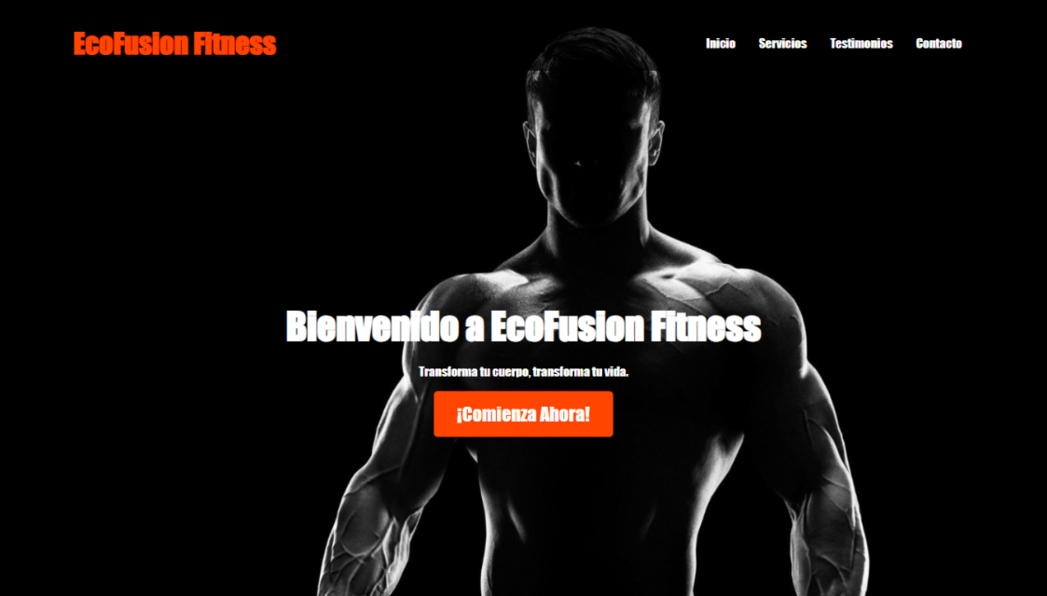
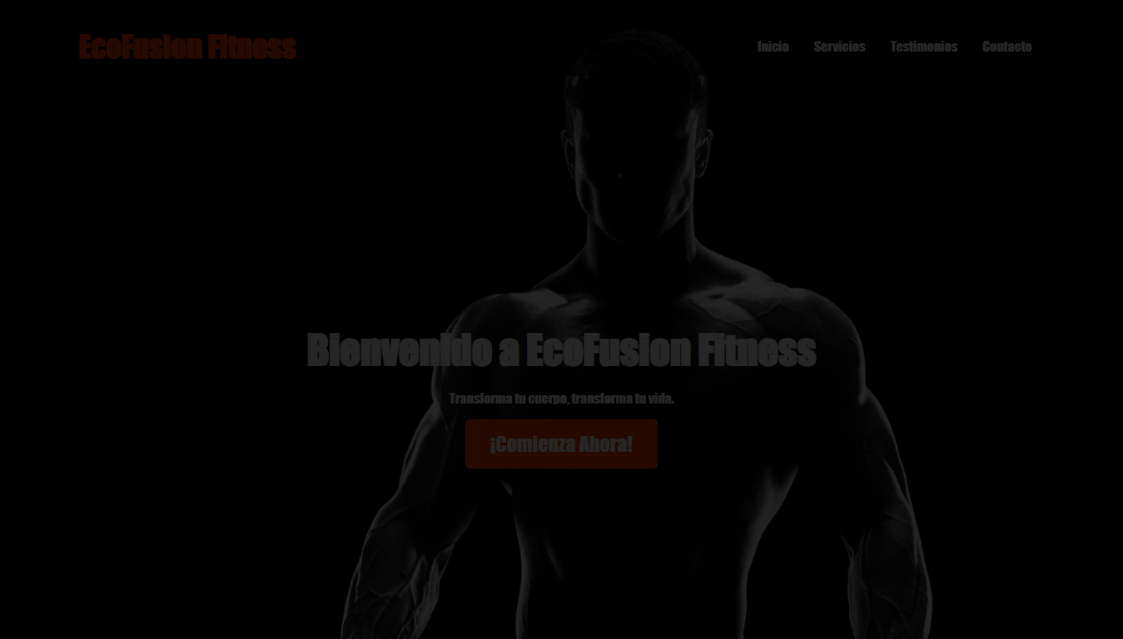
Finalizando ajustes del carrusel

diff --git a/src/components/sections/ProjectSection.js b/src/components/sections/ProjectSection.js
@@ -7,13 +7,22 @@ import 'src/app/globals.css'
 const ProjectSection = () => {
   const slides = [
     {
-      url: '/assets/img/projects/1.png'
+      url: '/assets/img/projects/11.png',
+      description: 'Nuestro objetivo es inspirar y guiar a las personas hacia un estilo de vida activo y saludable, fomentando el bienestar físico y mental',
+      title: 'EcoFusión Fitness',
+      color: 'text-[#FF4500]'
     },
     {
-      url: '/assets/img/projects/2.png'
+      url: '/assets/img/projects/22.png',
+      description: 'Utilizamos tecnologías avanzadas de inteligencia artificial y análisis de datos para ofrecer pronósticos deportivos precisos y recomendaciones de apuestas en tiempo real, confiables y certeros',
+      title: 'AI',
+      color: 'text-[#FFBD5B]'
     },
     {
-      url: '/assets/img/projects/3.png'
+      url: '/assets/img/projects/33.png',
+      description: 'Este proyecto se basa en la gestión y administración de población de manera masiva, contando con muchas funcionalidades que la ayudan a ser la más completa',
+      title: 'Confidencial',
+      color: 'text-[Afb0b1]'
     }
   ]
 
@@ -40,7 +49,7 @@ const ProjectSection = () => {
       <div className='max-w-[1400px] h-[607px] w-full m-auto relative group z-20'>
         <div
           style={ { backgroundImage: `url(${slides[currentIndex].url})` } }
-          className='w-full h-full opacity-20 brightness-[.8] bg-center bg-no-repeat ease-in-out duration-300 relative'
+          className='w-full h-full bg-center bg-no-repeat ease-in-out duration-300 relative'
         >
           {/* Left Arrow */ }
           <div className='group-hover:block absolute top-[50%] -translate-x-0 translate-y-[-50%] left-5 text-2xl text-primary-300 cursor-pointer'>
@@ -51,31 +60,34 @@ const ProjectSection = () => {
             <IoIosArrowForward onClick={ nextSlide } size={ 50 } />
           </div>
           <div className='absolute bottom-5 left-1/2 transform -translate-x-1/2 flex space-x-0.5'>
-            { slides.map((slide, slideIndex) => (
+            { slides.map((project, projectIndex) => (
               <div
-                key={ slideIndex }
-                onClick={ () => goToSlide(slideIndex) }
-                className={ `text-3xl cursor-pointer ${currentIndex === slideIndex ? 'text-[#808080]' : 'text-[#333333]'
-                  }` }
+                key={ projectIndex }
+                onClick={ () => goToSlide(projectIndex) }
+                className={ `text-4xl cursor-pointer ${currentIndex === projectIndex ? 'text-[#808080]' : 'text-[#333333]'}` }
               >
                 <RxDotFilled />
               </div>
             )) }
           </div>
-        </div>
-        <div className="absolute top-[5%] left-1/2 transform -translate-x-1/2 text-white text-center z-30 font-montserrat">
-          <h1 className="text-4xl">Proyectos</h1>
-          <p className="text-lg mt-48 max-w-sm mx-auto">
-            &quot;Sobre que es el proyecto, y cuales son sus valores o cosas que lo identifiquen&quot;
-          </p>
-          <h2 className="text-lg mt-10">Nombre del Proyecto</h2>
-          <p className="text-lg">Descripción detallada del proyecto.</p>
-          <a className="text-primary-300 underline hover:text-primary-500 cursor-pointer">
-            Ver más
-          </a>
+          <div className="absolute left-1/2 transform -translate-x-1/2 text-white text-center z-30 font-montserrat">
+            <h1 className="text-4xl my-5 mb-40">Proyectos</h1>
+            <h2 className={ `text-lg ${slides[currentIndex].color}` }>
+              { slides[currentIndex].title }
+              {
+                currentIndex === 1 ? <span className='text-lg text-[#CECECE]'> PLAY</span> : ''
+              }
+            </h2>
+            <p className="text-lg mt-5 mb-5 max-w-sm mx-auto text-justify">
+              &quot;{ slides[currentIndex].description }&quot;.
+            </p>
+            <a className="text-primary-300 underline hover:text-primary-500 cursor-pointer">
+              Ver más
+            </a>
+          </div>
         </div>
       </div>
-    </div >
+    </div>
   )
 }
 
